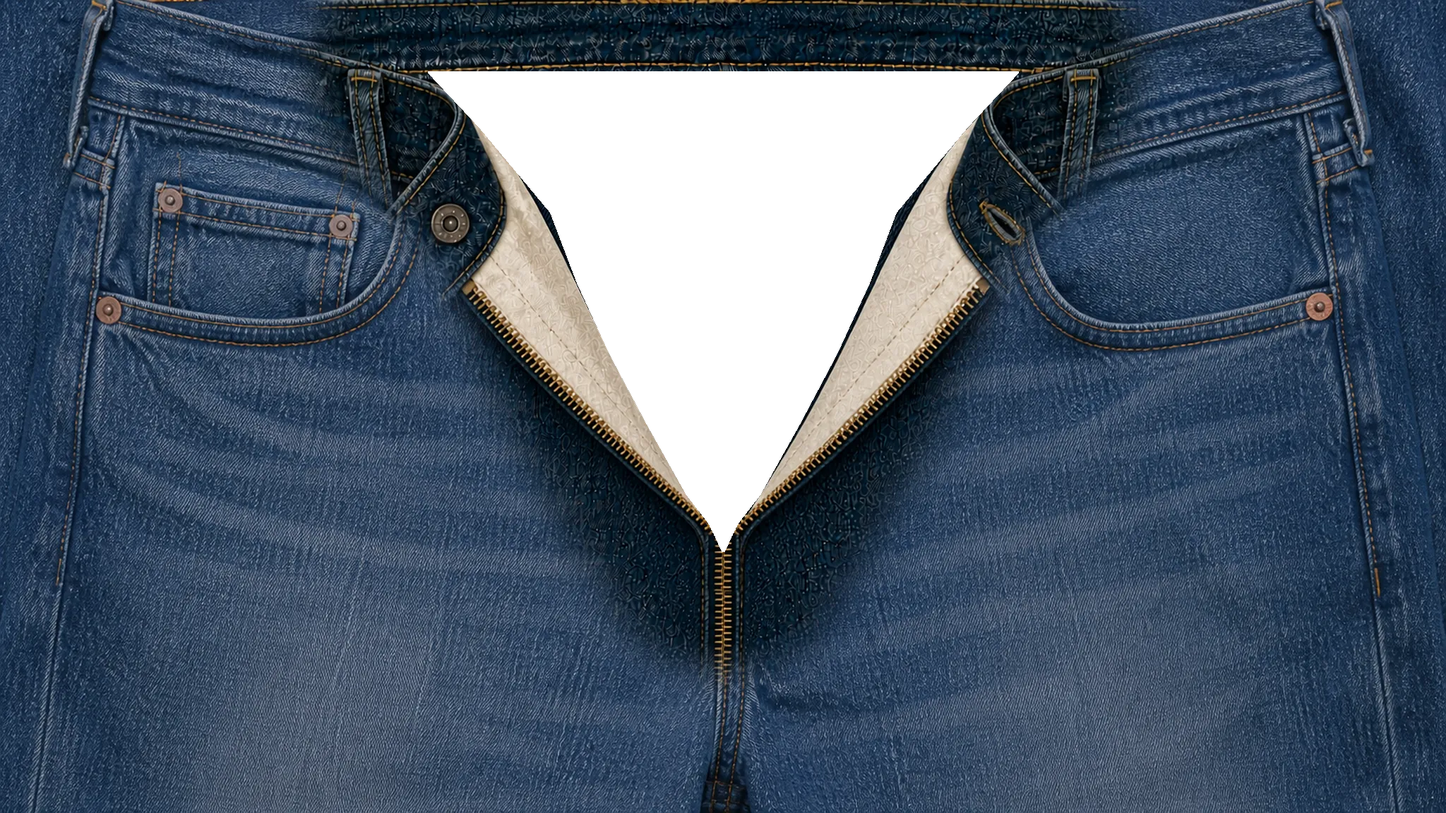
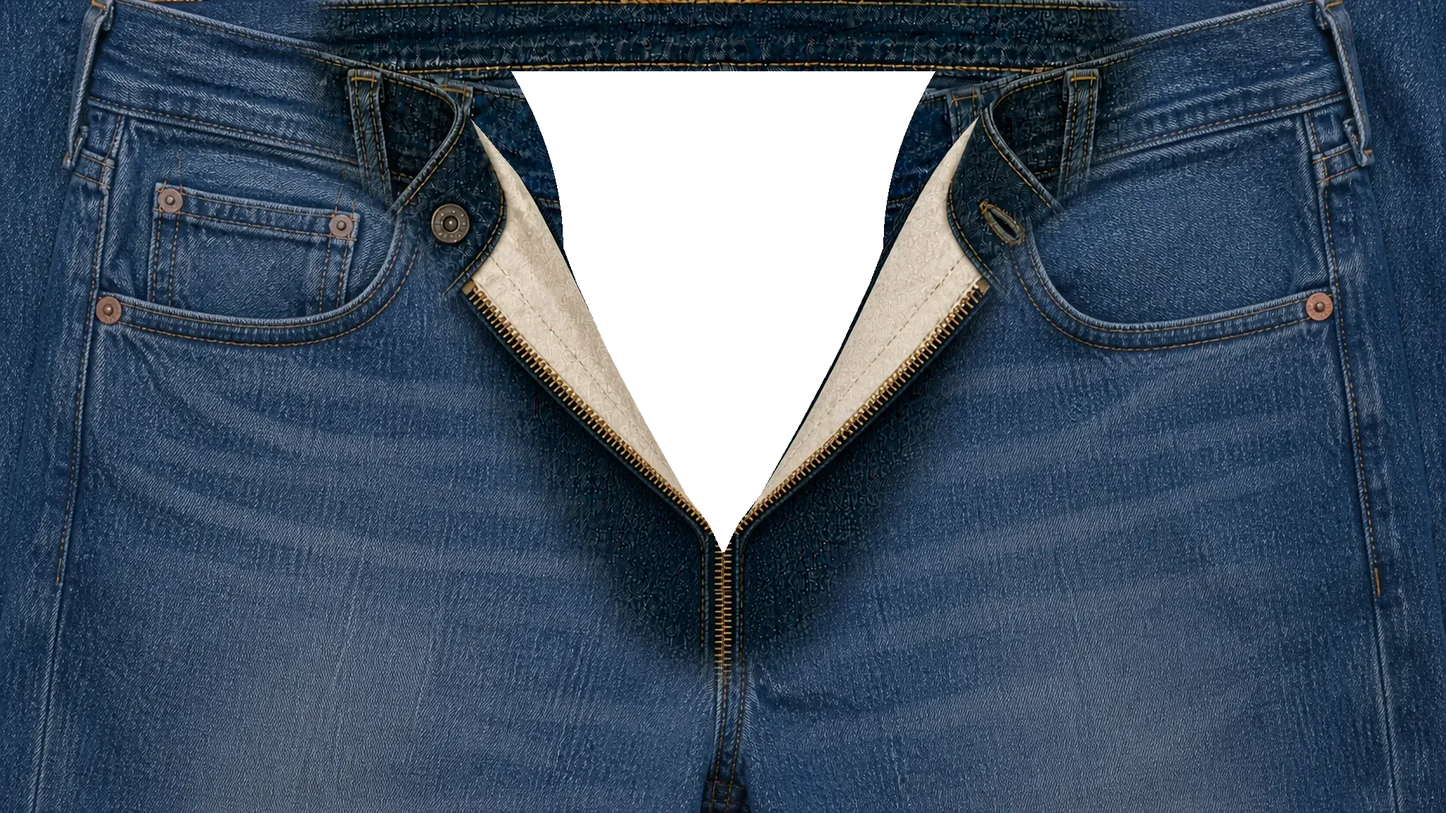
fix(zipper-pull): 內容只鋪開口範圍、包包開口收在包身內、補回全開幀腰頭布料
- 內容層改為只鋪 contentBox（開口所在的原圖區域），不再放大到整個畫面，
  拉開後看到的圖片與影片解析度明顯改善
- 包包只用到第 7 幀：更大的開口會超出包身上下緣、吃掉提把
- jeansv3-5（全開幀）上一輪漏修，腰頭透明區橫切過頭把鈕扣附近的丹寧挖掉，
  現在補回不透明，腰頭兩片之間仍保持穿透

Changed region(s): [[0.5938, 0.0625, 0.7188, 0.2812], [0.2812, 0.0625, 0.4062, 0.2812]]

diff --git a/effects/zipper-pull/effect.js b/effects/zipper-pull/effect.js
@@ -15,15 +15,18 @@ const GARMENTS = {
     line: 1024,
     apex: [288, 325, 486, 525, 768, 781],
     // 這條原圖 y 對齊畫面頂端：裁掉腰頭上緣的深色帶，褲身看起來更近更滿
-    focusTop: 100
+    focusTop: 100,
+    // 內容層只鋪這塊原圖區域（開口最大範圍外擴一點），避免內容被放大到糊掉
+    contentBox: [586, 81, 876, 720]
   },
   bag: {
-    // 只用到第 9 幀：素材有 12 幀，但 10 以後開口大到吃掉提把、包身變成空殼
-    frames: Array.from({ length: 10 }, (_, i) => `assets/frames/bagv3-${i}.webp`),
+    // 只用到第 7 幀：素材有 12 幀，但更大的開口會超出包身上下緣、吃掉提把
+    frames: Array.from({ length: 8 }, (_, i) => `assets/frames/bagv3-${i}.webp`),
     sliderUrl: "assets/slider-jeans2.png",
     axis: "h",
     line: 577,
-    apex: [200, 350, 500, 650, 800, 950, 1100, 1250, 1400, 1550]
+    apex: [200, 350, 500, 650, 800, 950, 1100, 1250],
+    contentBox: [180, 312, 1120, 530]
   }
 };
 
@@ -74,7 +77,6 @@ const state = {
 
 const style = document.createElement("style");
 style.textContent = `
-  .zipper-content-layer,
   .zipper-content-layer img,
   .zipper-canvas {
     position: absolute;
@@ -82,7 +84,8 @@ style.textContent = `
     width: 100%;
     height: 100%;
   }
-  .zipper-content-layer { overflow: hidden; background: #111; }
+  /* 內容層只鋪滿開口範圍（由 contentBox 定位），不放大到整個畫面，解析度才不會糊掉 */
+  .zipper-content-layer { position: absolute; overflow: hidden; background: #111; }
   .zipper-content-layer img {
     object-fit: cover;
     display: block;
@@ -258,9 +261,23 @@ function drawSlider(layout, tip) {
   context.restore();
 }
 
+// 內容層對齊開口所在的原圖區域，隨版面縮放同步
+function updateContentBox(layout) {
+  const box = layout.garment.contentBox;
+  if (!box) {
+    return;
+  }
+  const [bx, by, bw, bh] = box;
+  contentLayer.style.left = `${layout.offsetX + bx * layout.scale}px`;
+  contentLayer.style.top = `${layout.offsetY + by * layout.scale}px`;
+  contentLayer.style.width = `${bw * layout.scale}px`;
+  contentLayer.style.height = `${bh * layout.scale}px`;
+}
+
 function drawScene() {
   state.renderQueued = false;
   const layout = getLayout();
+  updateContentBox(layout);
   const frames = state.garmentImages.get(state.garment);
   if (!frames) {
     return;
